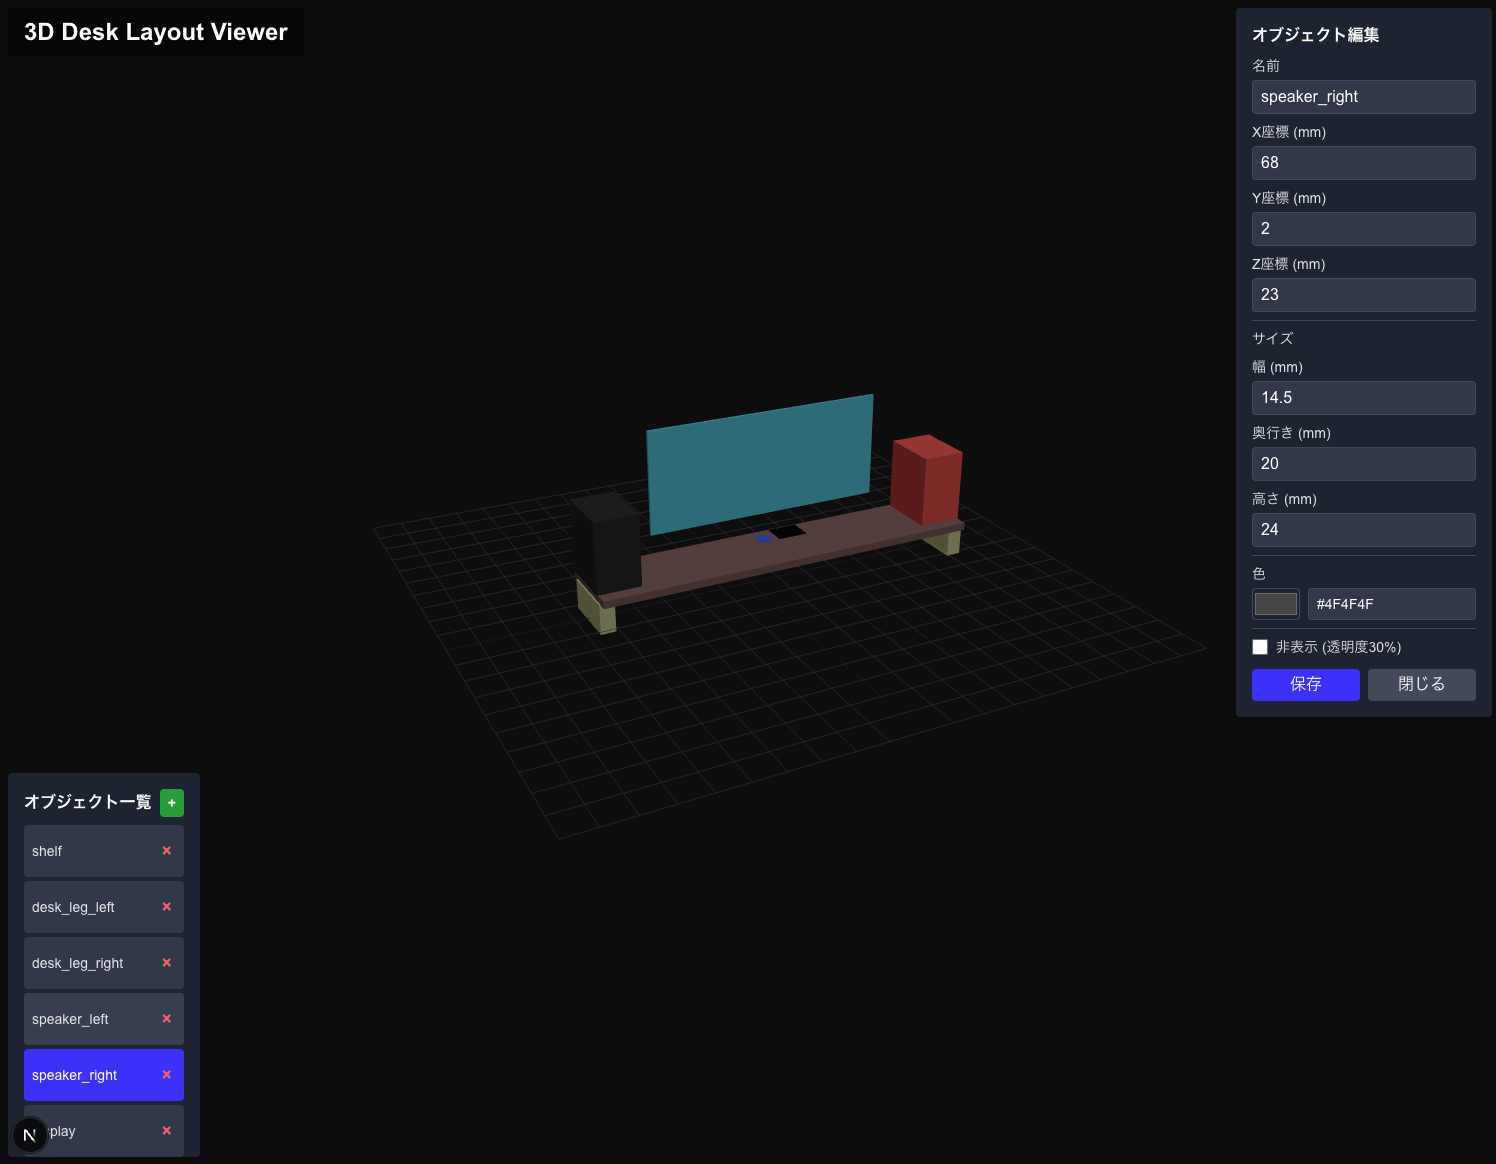
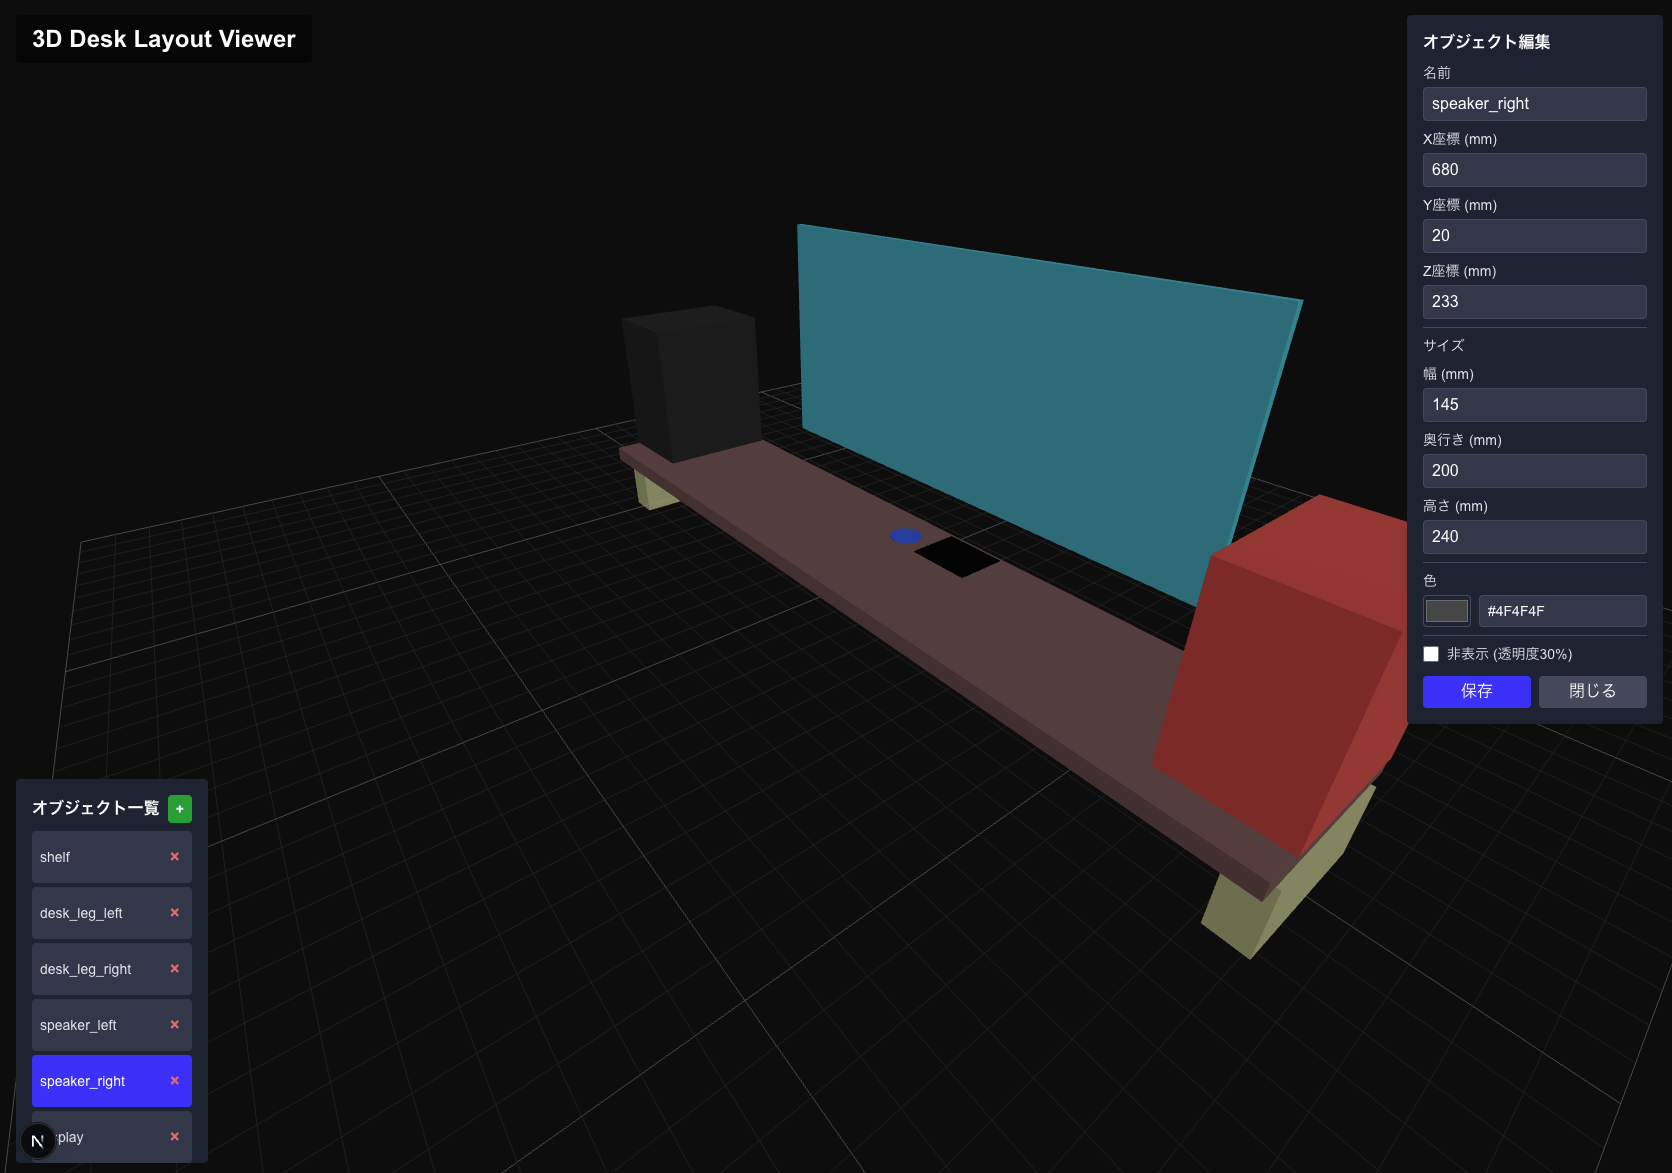
feat(3D Viewer): Add custom grid with major lines

Changed region(s): [[0.369, 0.0, 1.0, 0.8351], [0.0, 0.6495, 0.1537, 1.0], [0.0, 0.0, 0.1845, 0.0619]]

diff --git a/src/components/DeskViewer3D.tsx b/src/components/DeskViewer3D.tsx
@@ -2,7 +2,8 @@
 
 import { Canvas } from '@react-three/fiber'
 import { OrbitControls, Box, Cylinder } from '@react-three/drei'
-import { useEffect, useState } from 'react'
+import { useEffect, useState, useRef, useLayoutEffect } from 'react'
+import * as THREE from 'three'
 import * as yaml from 'js-yaml'
 import { saveYamlFile } from '@/app/actions'
 import { CONFIG, getLayoutFilePath } from '@/config/constants'
@@ -66,6 +67,56 @@ function DeskElement({ element, isSelected, onSelect }: {
   }
 
   return null
+}
+
+function CustomGrid({ size = 20, divisions = 40, majorEvery = 10 }: {
+  size?: number
+  divisions?: number
+  majorEvery?: number
+}) {
+  const minorGridRef = useRef<THREE.LineSegments>(null!)
+  const majorGridRef = useRef<THREE.LineSegments>(null!)
+  
+  useLayoutEffect(() => {
+    const minorPositions: number[] = []
+    const majorPositions: number[] = []
+    
+    for (let i = 0; i <= divisions; i++) {
+      const pos = (i / divisions - 0.5) * size
+      
+      if (i % majorEvery === 0) {
+        // Major lines (every 10th line)
+        majorPositions.push(-size/2, 0, pos, size/2, 0, pos) // horizontal
+        majorPositions.push(pos, 0, -size/2, pos, 0, size/2) // vertical
+      } else {
+        // Minor lines
+        minorPositions.push(-size/2, 0, pos, size/2, 0, pos) // horizontal
+        minorPositions.push(pos, 0, -size/2, pos, 0, size/2) // vertical
+      }
+    }
+    
+    if (minorGridRef.current) {
+      minorGridRef.current.geometry.setAttribute('position', 
+        new THREE.BufferAttribute(new Float32Array(minorPositions), 3))
+    }
+    if (majorGridRef.current) {
+      majorGridRef.current.geometry.setAttribute('position', 
+        new THREE.BufferAttribute(new Float32Array(majorPositions), 3))
+    }
+  }, [size, divisions, majorEvery])
+  
+  return (
+    <>
+      <lineSegments ref={minorGridRef}>
+        <bufferGeometry />
+        <lineBasicMaterial color="#666666" opacity={0.2} transparent />
+      </lineSegments>
+      <lineSegments ref={majorGridRef}>
+        <bufferGeometry />
+        <lineBasicMaterial color="#999999" opacity={0.4} transparent />
+      </lineSegments>
+    </>
+  )
 }
 
 export default function DeskViewer3D() {
@@ -403,7 +454,11 @@ export default function DeskViewer3D() {
 
         <OrbitControls enablePan={true} enableZoom={true} enableRotate={true} />
 
-        <gridHelper args={[CONFIG.GRID.SIZE, CONFIG.GRID.DIVISIONS]} material-opacity={CONFIG.GRID.OPACITY} material-transparent={true} />
+        <CustomGrid 
+          size={CONFIG.GRID.SIZE} 
+          divisions={CONFIG.GRID.DIVISIONS} 
+          majorEvery={10} 
+        />
       </Canvas>
     </div>
   )

diff --git a/src/config/constants.ts b/src/config/constants.ts
@@ -5,20 +5,20 @@ export const CONFIG = {
   
   // 3D表示設定
   CAMERA: {
-    POSITION: [3, 2, 2] as [number, number, number],
-    FOV: 50,
+    POSITION: [8, 6, 8] as [number, number, number],
+    FOV: 75,
   },
   
   // グリッド設定
   GRID: {
-    SIZE: 2,
-    DIVISIONS: 20,
+    SIZE: 20,
+    DIVISIONS: 40,
     OPACITY: 0.2,
   },
   
   // 座標系設定
   COORDINATE: {
-    SCALE_FACTOR: 100, // mm to meters conversion
+    SCALE_FACTOR: 100, // cm to meters conversion
   },
   
   // UI設定
